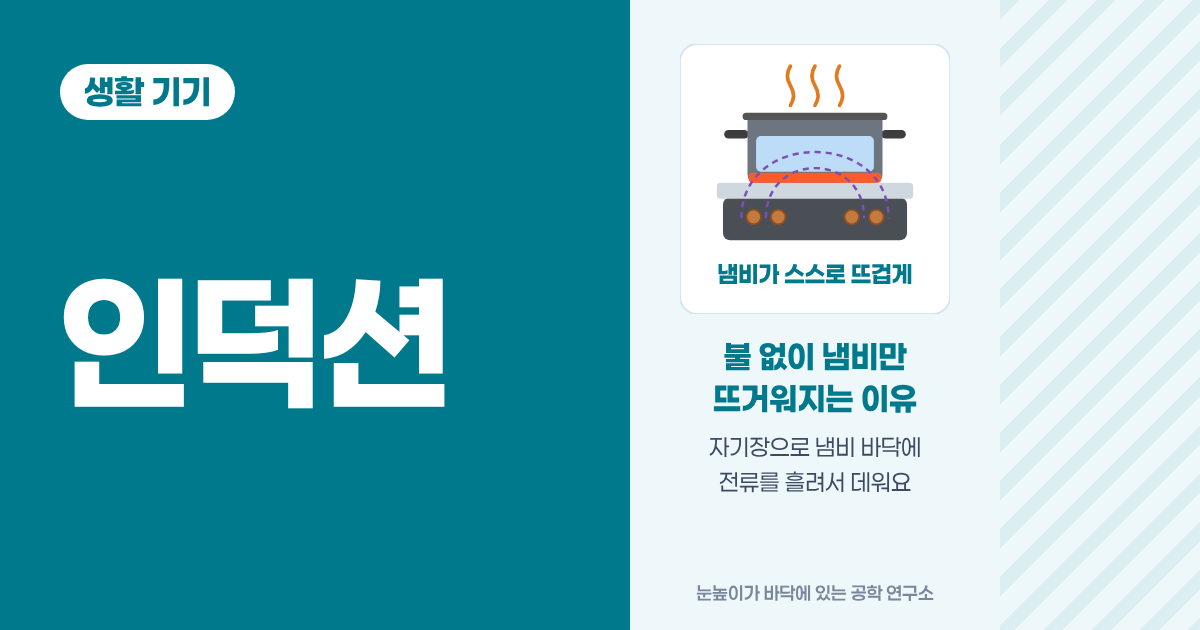
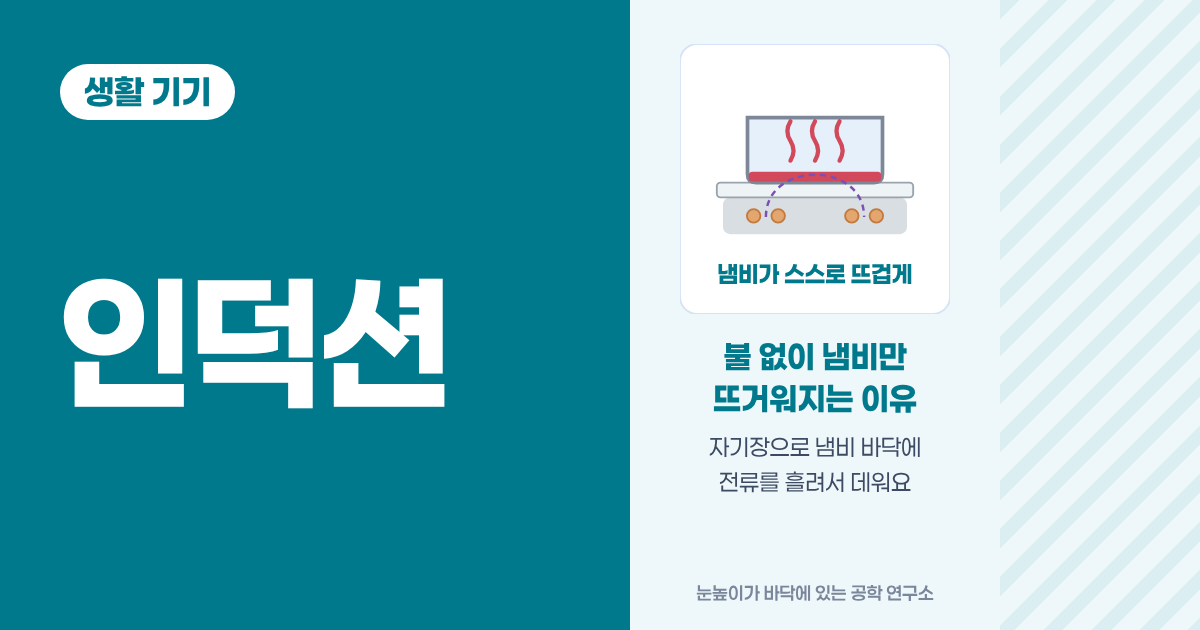
HA-120 표지: 정사각형 썸네일 잘림 고침(그림 색을 밝게)
Claude-Session: https://claude.ai/code/session_01DR6nsVNAeEXLhn9YQGXxtx

Changed region(s): [[0.5858, 0.0905, 0.7708, 0.3921]]

diff --git a/tools/cover.py b/tools/cover.py
@@ -164,16 +164,13 @@ M["heatmove"] = """
 <text x="220" y="410" text-anchor="middle" font-family="P" font-weight="800" font-size="38" fill="{c}">안의 열을 밖으로</text>"""
 
 M["induction"] = """
-<rect x="70" y="250" width="300" height="70" rx="12" fill="#4a4f55"/>
-<rect x="60" y="226" width="320" height="26" rx="6" fill="#cfd8de"/>
-<g fill="#c27a3e" stroke="#8a4f22" stroke-width="3"><circle cx="120" cy="282" r="12"/><circle cx="160" cy="282" r="12"/><circle cx="280" cy="282" r="12"/><circle cx="320" cy="282" r="12"/></g>
-<rect x="72" y="140" width="40" height="14" rx="7" fill="#3d3d3d"/><rect x="328" y="140" width="40" height="14" rx="7" fill="#3d3d3d"/>
-<path d="M110 120 L110 212 Q110 226 124 226 L316 226 Q330 226 330 212 L330 120 Z" fill="#6d7680"/>
-<rect x="102" y="112" width="236" height="12" rx="6" fill="#555"/>
-<rect x="124" y="150" width="192" height="58" rx="8" fill="#bcdcf8"/>
-<rect x="112" y="210" width="216" height="16" rx="6" fill="#ff5a2a"/>
-<g fill="none" stroke="#7b4fb5" stroke-width="4" stroke-dasharray="10 8"><path d="M140 284 C140 175 300 175 300 284"/><path d="M100 284 C100 140 340 140 340 284"/></g>
-<g fill="none" stroke="#e07b1f" stroke-width="6" stroke-linecap="round"><path d="M180 100 q10 -16 0 -32 q-10 -16 0 -32"/><path d="M220 100 q10 -16 0 -32 q-10 -16 0 -32"/><path d="M260 100 q10 -16 0 -32 q-10 -16 0 -32"/></g>
+<rect x="70" y="250" width="300" height="60" rx="12" fill="#d9dee2"/>
+<rect x="60" y="226" width="320" height="24" rx="6" fill="#eef3f6" stroke="#9aa3ab" stroke-width="3"/>
+<g fill="#e3a66f" stroke="#c27a3e" stroke-width="3"><circle cx="120" cy="280" r="11"/><circle cx="160" cy="280" r="11"/><circle cx="280" cy="280" r="11"/><circle cx="320" cy="280" r="11"/></g>
+<path d="M110 120 L110 212 Q110 226 124 226 L316 226 Q330 226 330 212 L330 120 Z" fill="#e6f0fb" stroke="#7d8798" stroke-width="6"/>
+<rect x="112" y="208" width="216" height="16" rx="6" fill="#d1495b"/>
+<g fill="none" stroke="#7b4fb5" stroke-width="4" stroke-dasharray="10 8"><path d="M140 282 C140 190 300 190 300 282"/></g>
+<g fill="none" stroke="#d1495b" stroke-width="7" stroke-linecap="round"><path d="M180 190 q10 -16 0 -32 q-10 -16 0 -32"/><path d="M220 190 q10 -16 0 -32 q-10 -16 0 -32"/><path d="M260 190 q10 -16 0 -32 q-10 -16 0 -32"/></g>
 <text x="220" y="390" text-anchor="middle" font-family="P" font-weight="800" font-size="38" fill="{c}">냄비가 스스로 뜨겁게</text>"""
 
 COVERS = {
